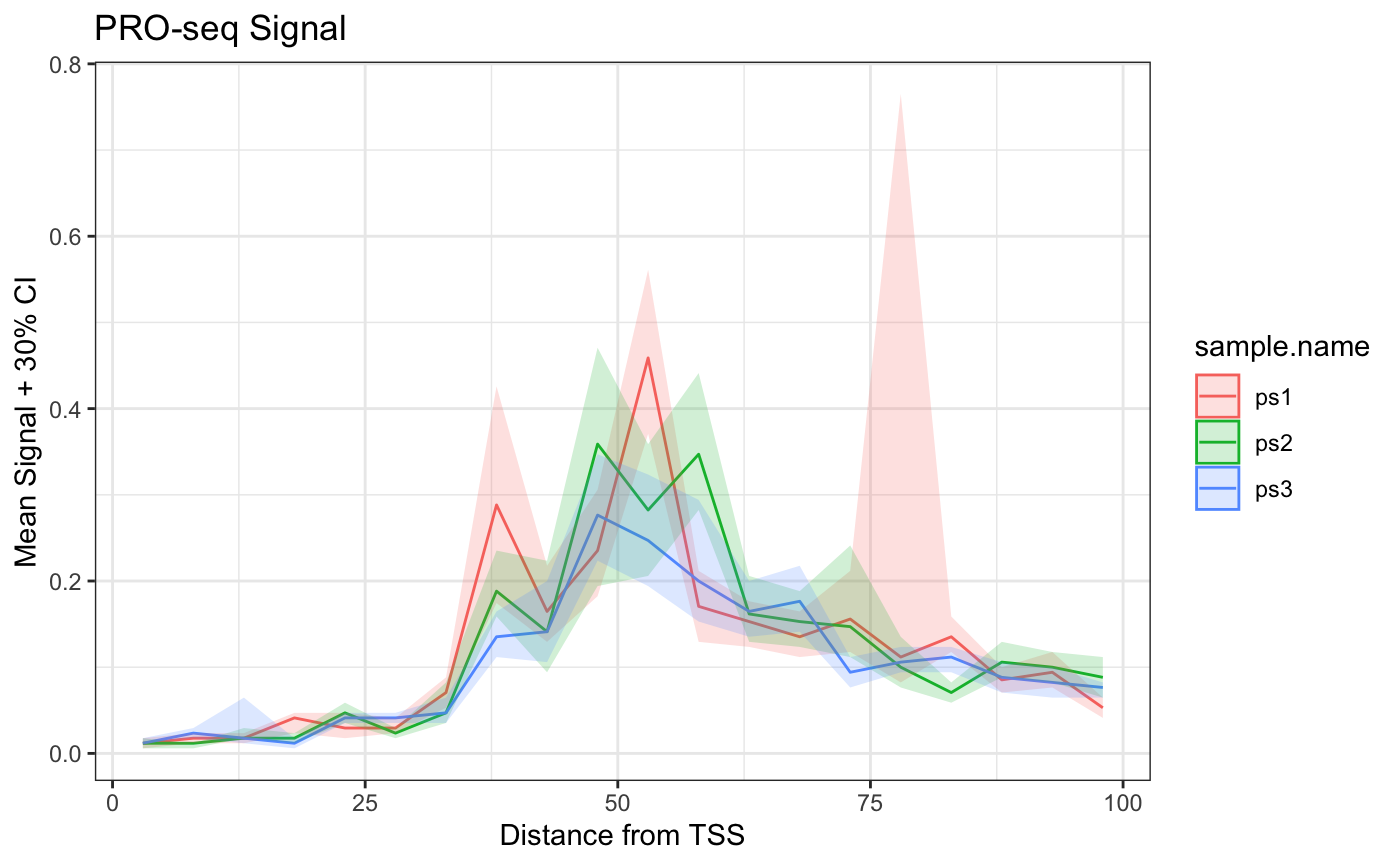
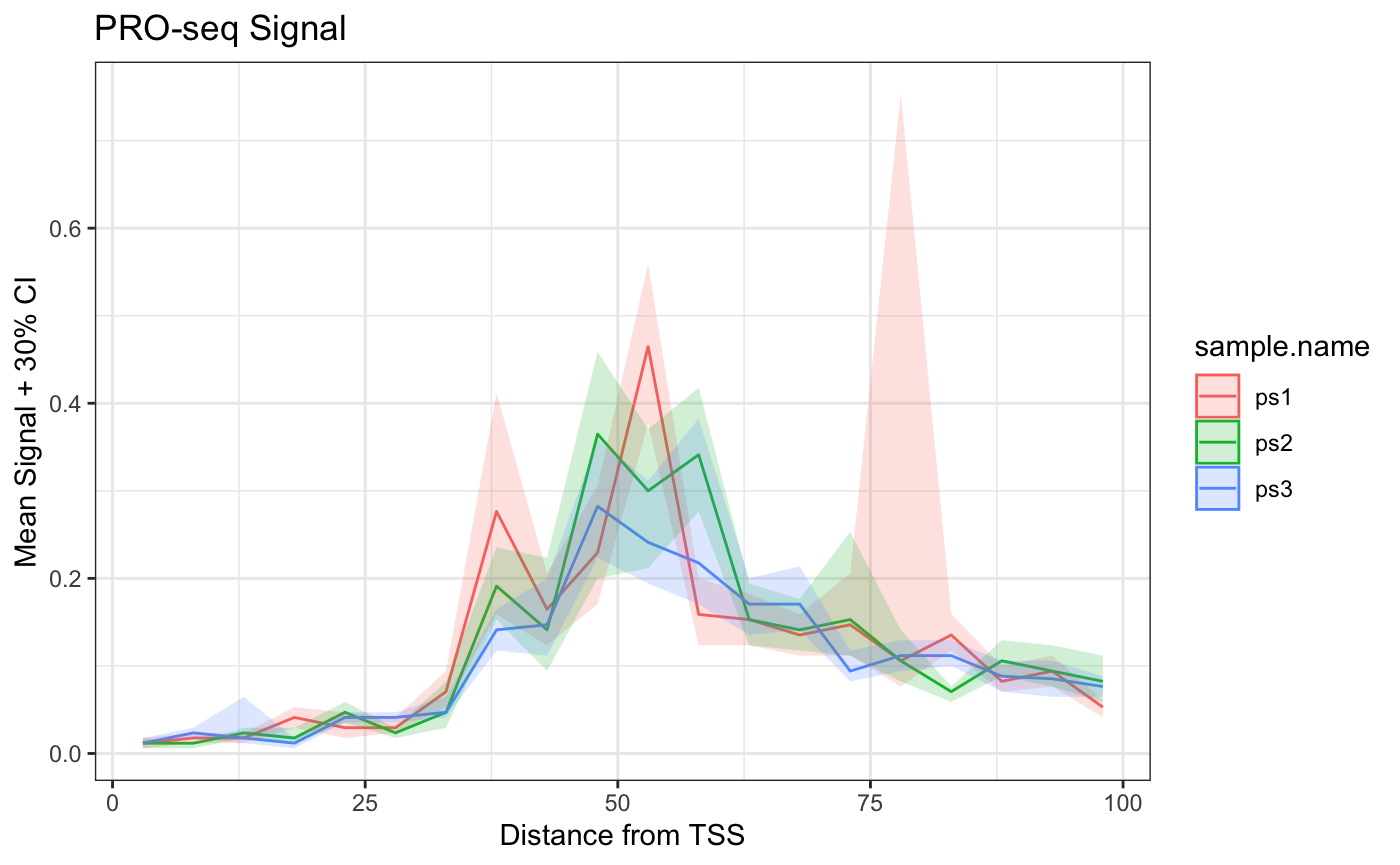
v0.99.1

diff --git a/articles/BRGenomicsOverview.html b/articles/BRGenomicsOverview.html
@@ -31,7 +31,7 @@
       </button>
       <span class="navbar-brand">
         <a class="navbar-link" href="../index.html">BRGenomics</a>
-        <span class="version label label-default" data-toggle="tooltip" data-placement="bottom" title="Released version">0.99.0</span>
+        <span class="version label label-default" data-toggle="tooltip" data-placement="bottom" title="Released version">0.99.1</span>
       </span>
     </div>
 
@@ -1072,11 +1072,11 @@
 <a class="sourceLine" id="cb132-2" data-line-number="2">                              <span class="dt">lower =</span> <span class="fl">0.35</span>, <span class="dt">upper =</span> <span class="fl">0.65</span>, <span class="dt">ncores =</span> <span class="dv">2</span>)</a>
 <a class="sourceLine" id="cb132-3" data-line-number="3"><span class="kw"><a href="https://rdrr.io/r/utils/head.html">head</a></span>(bootmeans.df)</a></code></pre></div>
 <pre><code>##    x       mean      lower      upper sample.name
-## 1  3 0.03529412 0.02941176 0.05294118      PROseq
-## 2  8 0.05882353 0.04117647 0.07058824      PROseq
-## 3 13 0.07941176 0.05882353 0.10000000      PROseq
-## 4 18 0.07058824 0.05294118 0.10000000      PROseq
-## 5 23 0.12941176 0.10000000 0.16470588      PROseq
+## 1  3 0.03529412 0.02941176 0.04705882      PROseq
+## 2  8 0.05294118 0.04117647 0.07058824      PROseq
+## 3 13 0.07058824 0.05294118 0.10000000      PROseq
+## 4 18 0.06470588 0.04705882 0.09411765      PROseq
+## 5 23 0.12352941 0.10000000 0.15294118      PROseq
 ## 6 28 0.09411765 0.08235294 0.10588235      PROseq</code></pre>
 <p>A dataframe is returned for plotting, and notice how the x-values have been automatically adjusted to be the center of the bins.</p>
 <p>Below, we show how to plot the confidence bands using base R plotting, as well as <code>ggplot2</code>.</p>
@@ -1113,7 +1113,7 @@
 ## 1  3 0.01176471 0.005882353 0.01764706         ps1
 ## 2  8 0.01764706 0.011764706 0.02352941         ps1
 ## 3 13 0.01764706 0.011764706 0.02352941         ps1
-## 4 18 0.04117647 0.023529412 0.04705882         ps1
+## 4 18 0.04117647 0.029411765 0.05294118         ps1
 ## 5 23 0.02941176 0.017647059 0.04705882         ps1
 ## 6 28 0.02941176 0.023529412 0.04117647         ps1</code></pre>
 <div class="sourceCode" id="cb138"><pre class="sourceCode r"><code class="sourceCode r"><a class="sourceLine" id="cb138-1" data-line-number="1"><span class="kw"><a href="https://rdrr.io/r/base/library.html">require</a></span>(ggplot2)</a>
@@ -1697,7 +1697,7 @@
 ##  collate  en_US.UTF-8                                       
 ##  ctype    en_US.UTF-8                                       
 ##  tz       America/New_York                                  
-##  date     2020-03-02                                        
+##  date     2020-03-03                                        
 ## 
 ## ─ Packages ───────────────────────────────────────────────────────────────────
 ##  package              * version  date       lib source        
@@ -1716,7 +1716,7 @@
 ##  bitops                 1.0-6    2013-08-17 [3] CRAN (R 4.0.0)
 ##  blob                   1.2.1    2020-01-20 [3] CRAN (R 4.0.0)
 ##  bookdown               0.17     2020-01-11 [3] CRAN (R 4.0.0)
-##  BRGenomics           * 0.99.0   2020-03-03 [1] Bioconductor  
+##  BRGenomics           * 0.99.1   2020-03-03 [1] Bioconductor  
 ##  callr                  3.4.2    2020-02-12 [3] CRAN (R 4.0.0)
 ##  cli                    2.0.2    2020-02-28 [3] CRAN (R 4.0.0)
 ##  colorspace             1.4-1    2019-03-18 [3] CRAN (R 4.0.0)
@@ -1797,8 +1797,8 @@
 ##  yaml                   2.2.1    2020-02-01 [3] CRAN (R 4.0.0)
 ##  zlibbioc               1.33.1   2020-01-24 [3] Bioconductor  
 ## 
-## [1] /private/var/folders/zt/m504_3g569g6gqzjbqg34qn40000gn/T/Rtmp1mja0C/temp_libpath1220c52f01af0
-## [2] /private/var/folders/zt/m504_3g569g6gqzjbqg34qn40000gn/T/Rtmp1mja0C/temp_libpath1220c9bdcac
+## [1] /private/var/folders/zt/m504_3g569g6gqzjbqg34qn40000gn/T/RtmpR3pYSG/temp_libpath134e17a7ccab6
+## [2] /private/var/folders/zt/m504_3g569g6gqzjbqg34qn40000gn/T/RtmpR3pYSG/temp_libpath134e14555cb63
 ## [3] /Library/Frameworks/R.framework/Versions/4.0/Resources/library</code></pre>
 <!-- SCRAP -->
 <!-- The `import_bam` function provides several options for processing aligned reads, and in conjunction with functions from the *[rtracklayer](https://bioconductor.org/packages/3.11/rtracklayer)* package, we can easily write a post-alignment pipeline for generating bigWig files for viewing in a genome browser. -->

diff --git a/news/index.html b/news/index.html
@@ -67,7 +67,7 @@
       </button>
       <span class="navbar-brand">
         <a class="navbar-link" href="../index.html">BRGenomics</a>
-        <span class="version label label-default" data-toggle="tooltip" data-placement="bottom" title="Released version">0.99.0</span>
+        <span class="version label label-default" data-toggle="tooltip" data-placement="bottom" title="Released version">0.99.1</span>
       </span>
     </div>
 
@@ -117,6 +117,13 @@
       
     </div>
 
+    <div id="brgenomics-0-99-1" class="section level2">
+<h2 class="hasAnchor">
+<a href="#brgenomics-0-99-1" class="anchor"></a>BRGenomics 0.99.1</h2>
+<ul>
+<li>Remove .Rproj file from git repository</li>
+</ul>
+</div>
     <div id="brgenomics-0-99-0-bioconductor-submission" class="section level2">
 <h2 class="hasAnchor">
 <a href="#brgenomics-0-99-0-bioconductor-submission" class="anchor"></a>BRGenomics 0.99.0 (Bioconductor submission)</h2>
@@ -317,6 +324,7 @@
     <div id="tocnav">
       <h2>Contents</h2>
       <ul class="nav nav-pills nav-stacked">
+        <li><a href="#brgenomics-0-99-1">0.99.1</a></li>
         <li><a href="#brgenomics-0-99-0-bioconductor-submission">0.99.0</a></li>
         <li><a href="#brgenomics-0-8-1">0.8.1</a></li>
         <li><a href="#brgenomics-0-8-0">0.8.0</a></li>

diff --git a/reference/subsampleBySpikeIn.html b/reference/subsampleBySpikeIn.html
@@ -69,7 +69,7 @@
       </button>
       <span class="navbar-brand">
         <a class="navbar-link" href="../index.html">BRGenomics</a>
-        <span class="version label label-default" data-toggle="tooltip" data-placement="bottom" title="Released version">0.99.0</span>
+        <span class="version label label-default" data-toggle="tooltip" data-placement="bottom" title="Released version">0.99.1</span>
       </span>
     </div>
 
@@ -326,8 +326,8 @@ column.</p></td>
 #&gt; GRanges object with 2 ranges and 1 metadata column:
 #&gt;       seqnames    ranges strand |     score
 #&gt;          &lt;Rle&gt; &lt;IRanges&gt;  &lt;Rle&gt; | &lt;numeric&gt;
-#&gt;   [1]     chr1         1      + |     2e+06
-#&gt;   [2]     chr2         2      + |     1e+06
+#&gt;   [1]     chr1         1      + |     1e+06
+#&gt;   [2]     chr2         2      + |     2e+06
 #&gt;   -------
 #&gt;   seqinfo: 2 sequences from an unspecified genome; no seqlengths
 #&gt; </div><div class='input'>

diff --git a/reference/binNdimensions.html b/reference/binNdimensions.html
@@ -70,7 +70,7 @@ summarize the datapoints that fall into any of these n-dimensional bins." />
       </button>
       <span class="navbar-brand">
         <a class="navbar-link" href="../index.html">BRGenomics</a>
-        <span class="version label label-default" data-toggle="tooltip" data-placement="bottom" title="Released version">0.99.0</span>
+        <span class="version label label-default" data-toggle="tooltip" data-placement="bottom" title="Released version">0.99.1</span>
       </span>
     </div>
 

diff --git a/reference/import_bam.html b/reference/import_bam.html
@@ -70,7 +70,7 @@ processing options. It is highly recommend to index the BAM file first." />
       </button>
       <span class="navbar-brand">
         <a class="navbar-link" href="../index.html">BRGenomics</a>
-        <span class="version label label-default" data-toggle="tooltip" data-placement="bottom" title="Released version">0.99.0</span>
+        <span class="version label label-default" data-toggle="tooltip" data-placement="bottom" title="Released version">0.99.1</span>
       </span>
     </div>
 

diff --git a/reference/txs_dm6_chr4.html b/reference/txs_dm6_chr4.html
@@ -73,7 +73,7 @@ the TxDb package using GenomicFeatures version 1.35.11 on 2019-12-19." />
       </button>
       <span class="navbar-brand">
         <a class="navbar-link" href="../index.html">BRGenomics</a>
-        <span class="version label label-default" data-toggle="tooltip" data-placement="bottom" title="Released version">0.99.0</span>
+        <span class="version label label-default" data-toggle="tooltip" data-placement="bottom" title="Released version">0.99.1</span>
       </span>
     </div>
 

diff --git a/reference/mergeGRangesData.html b/reference/mergeGRangesData.html
@@ -72,7 +72,7 @@ multiplexed GRanges containing a field for each input dataset." />
       </button>
       <span class="navbar-brand">
         <a class="navbar-link" href="../index.html">BRGenomics</a>
-        <span class="version label label-default" data-toggle="tooltip" data-placement="bottom" title="Released version">0.99.0</span>
+        <span class="version label label-default" data-toggle="tooltip" data-placement="bottom" title="Released version">0.99.1</span>
       </span>
     </div>
 

diff --git a/reference/BRGenomics-package.html b/reference/BRGenomics-package.html
@@ -74,7 +74,7 @@ For interactive documentation with code examples, see the online
       </button>
       <span class="navbar-brand">
         <a class="navbar-link" href="../index.html">BRGenomics</a>
-        <span class="version label label-default" data-toggle="tooltip" data-placement="bottom" title="Released version">0.99.0</span>
+        <span class="version label label-default" data-toggle="tooltip" data-placement="bottom" title="Released version">0.99.1</span>
       </span>
     </div>
 

diff --git a/reference/genebodies.html b/reference/genebodies.html
@@ -70,7 +70,7 @@ start and end sites of regions of interest (usually genes)." />
       </button>
       <span class="navbar-brand">
         <a class="navbar-link" href="../index.html">BRGenomics</a>
-        <span class="version label label-default" data-toggle="tooltip" data-placement="bottom" title="Released version">0.99.0</span>
+        <span class="version label label-default" data-toggle="tooltip" data-placement="bottom" title="Released version">0.99.1</span>
       </span>
     </div>
 

diff --git a/reference/getStrandedCoverage.html b/reference/getStrandedCoverage.html
@@ -70,7 +70,7 @@ Function also works for non-strand-specific data." />
       </button>
       <span class="navbar-brand">
         <a class="navbar-link" href="../index.html">BRGenomics</a>
-        <span class="version label label-default" data-toggle="tooltip" data-placement="bottom" title="Released version">0.99.0</span>
+        <span class="version label label-default" data-toggle="tooltip" data-placement="bottom" title="Released version">0.99.1</span>
       </span>
     </div>
 

diff --git a/reference/getDESeqResults.html b/reference/getDESeqResults.html
@@ -75,7 +75,7 @@ being compared, and not for all samples present." />
       </button>
       <span class="navbar-brand">
         <a class="navbar-link" href="../index.html">BRGenomics</a>
-        <span class="version label label-default" data-toggle="tooltip" data-placement="bottom" title="Released version">0.99.0</span>
+        <span class="version label label-default" data-toggle="tooltip" data-placement="bottom" title="Released version">0.99.1</span>
       </span>
     </div>
 

diff --git a/reference/bootstrap-signal-by-position.html b/reference/bootstrap-signal-by-position.html
@@ -73,7 +73,7 @@ base-pair resolution, or over larger bins." />
       </button>
       <span class="navbar-brand">
         <a class="navbar-link" href="../index.html">BRGenomics</a>
-        <span class="version label label-default" data-toggle="tooltip" data-placement="bottom" title="Released version">0.99.0</span>
+        <span class="version label label-default" data-toggle="tooltip" data-placement="bottom" title="Released version">0.99.1</span>
       </span>
     </div>
 
